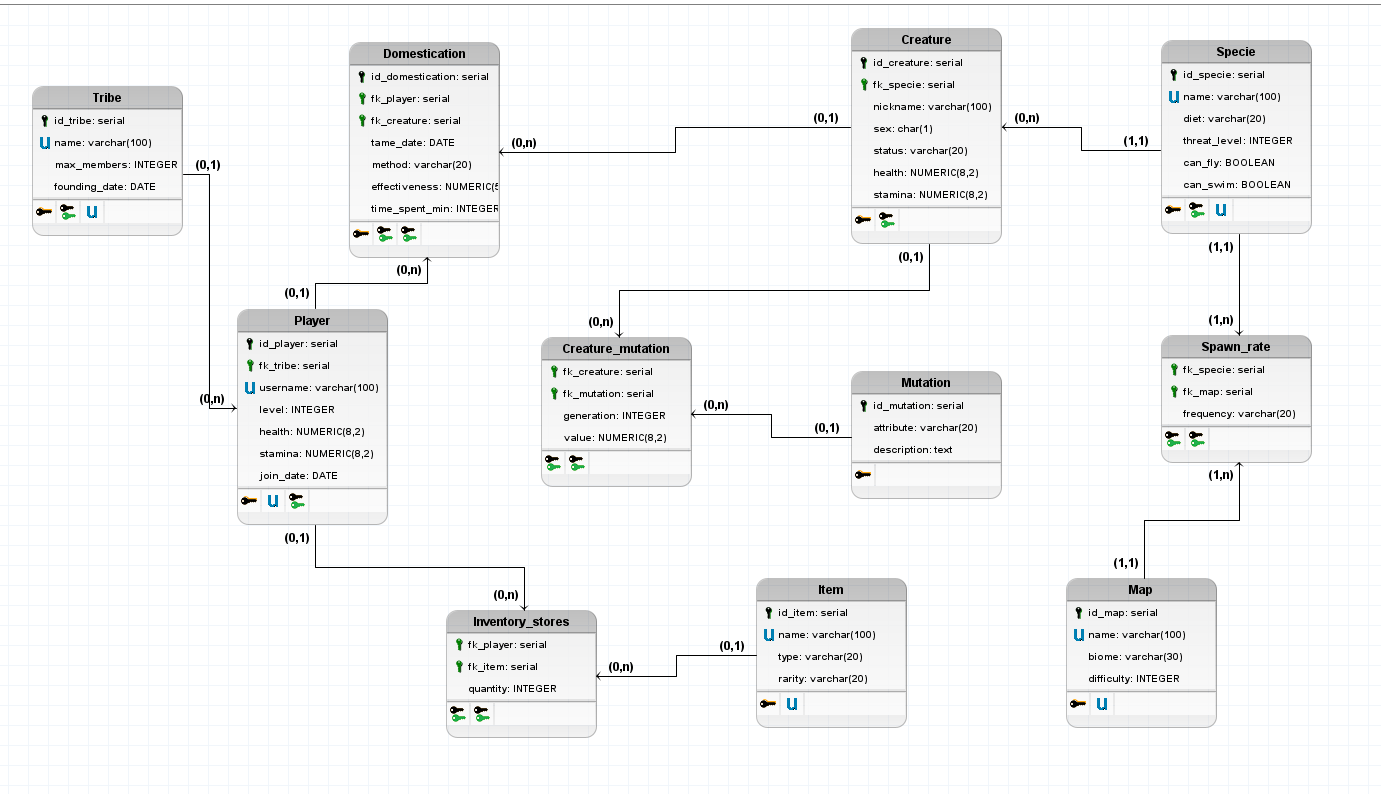
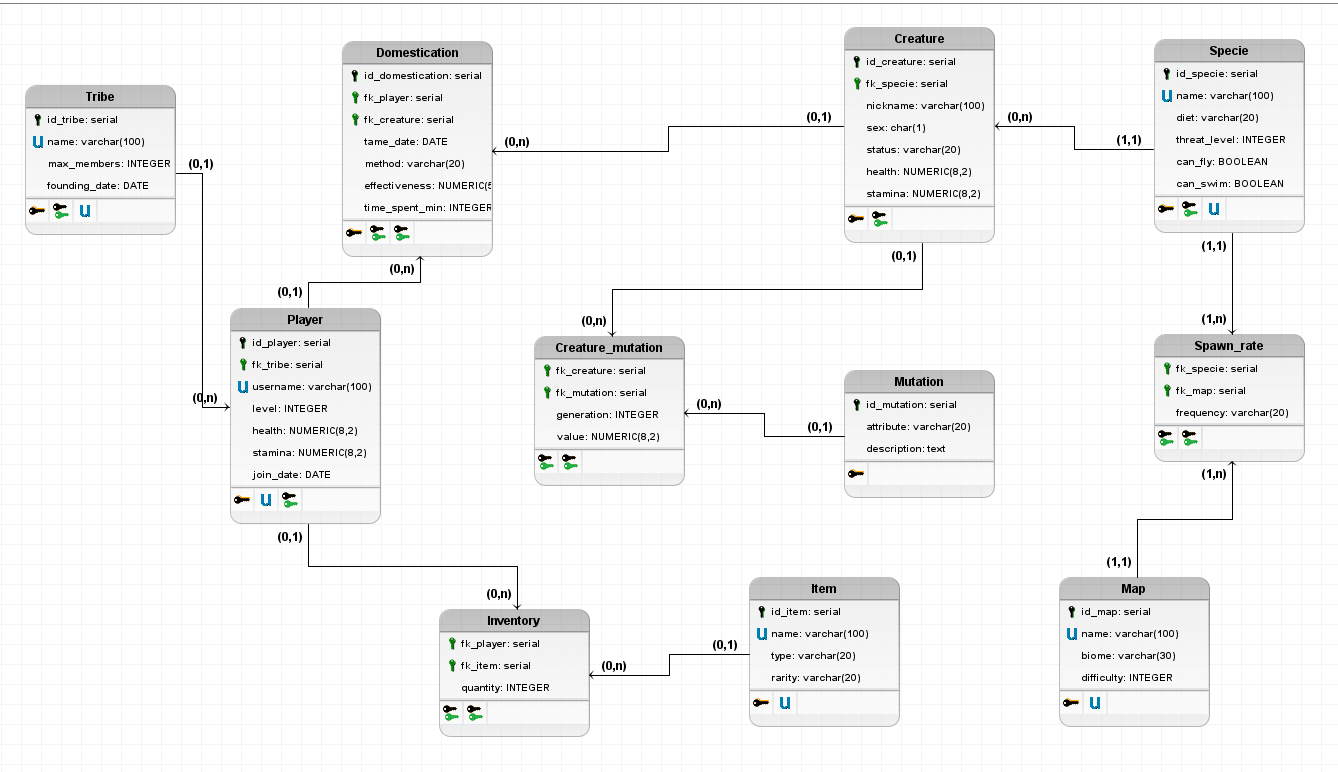
atualizando arquivos com modificações em logico e fisico

diff --git a/README.md b/README.md
@@ -11,21 +11,6 @@ Projetar, modelar e implementar um banco de dados relacional completo, cobrindo 
 
 ---
 
-## 🗂️ Estrutura do Projeto
-
-```
-ark-taming-db/
-├── docs/
-│   ├── MER.png              # Modelo Entidade-Relacionamento
-│   ├── DER.png              # Modelo Lógico
-│   └── relatorio.pdf        # Relatório técnico completo
-├── sql/
-│   └── schema.sql           # Script de criação e inserção
-└── README.md
-```
-
----
-
 ## 🧩 Entidades
 
 | Tabela | Descrição |